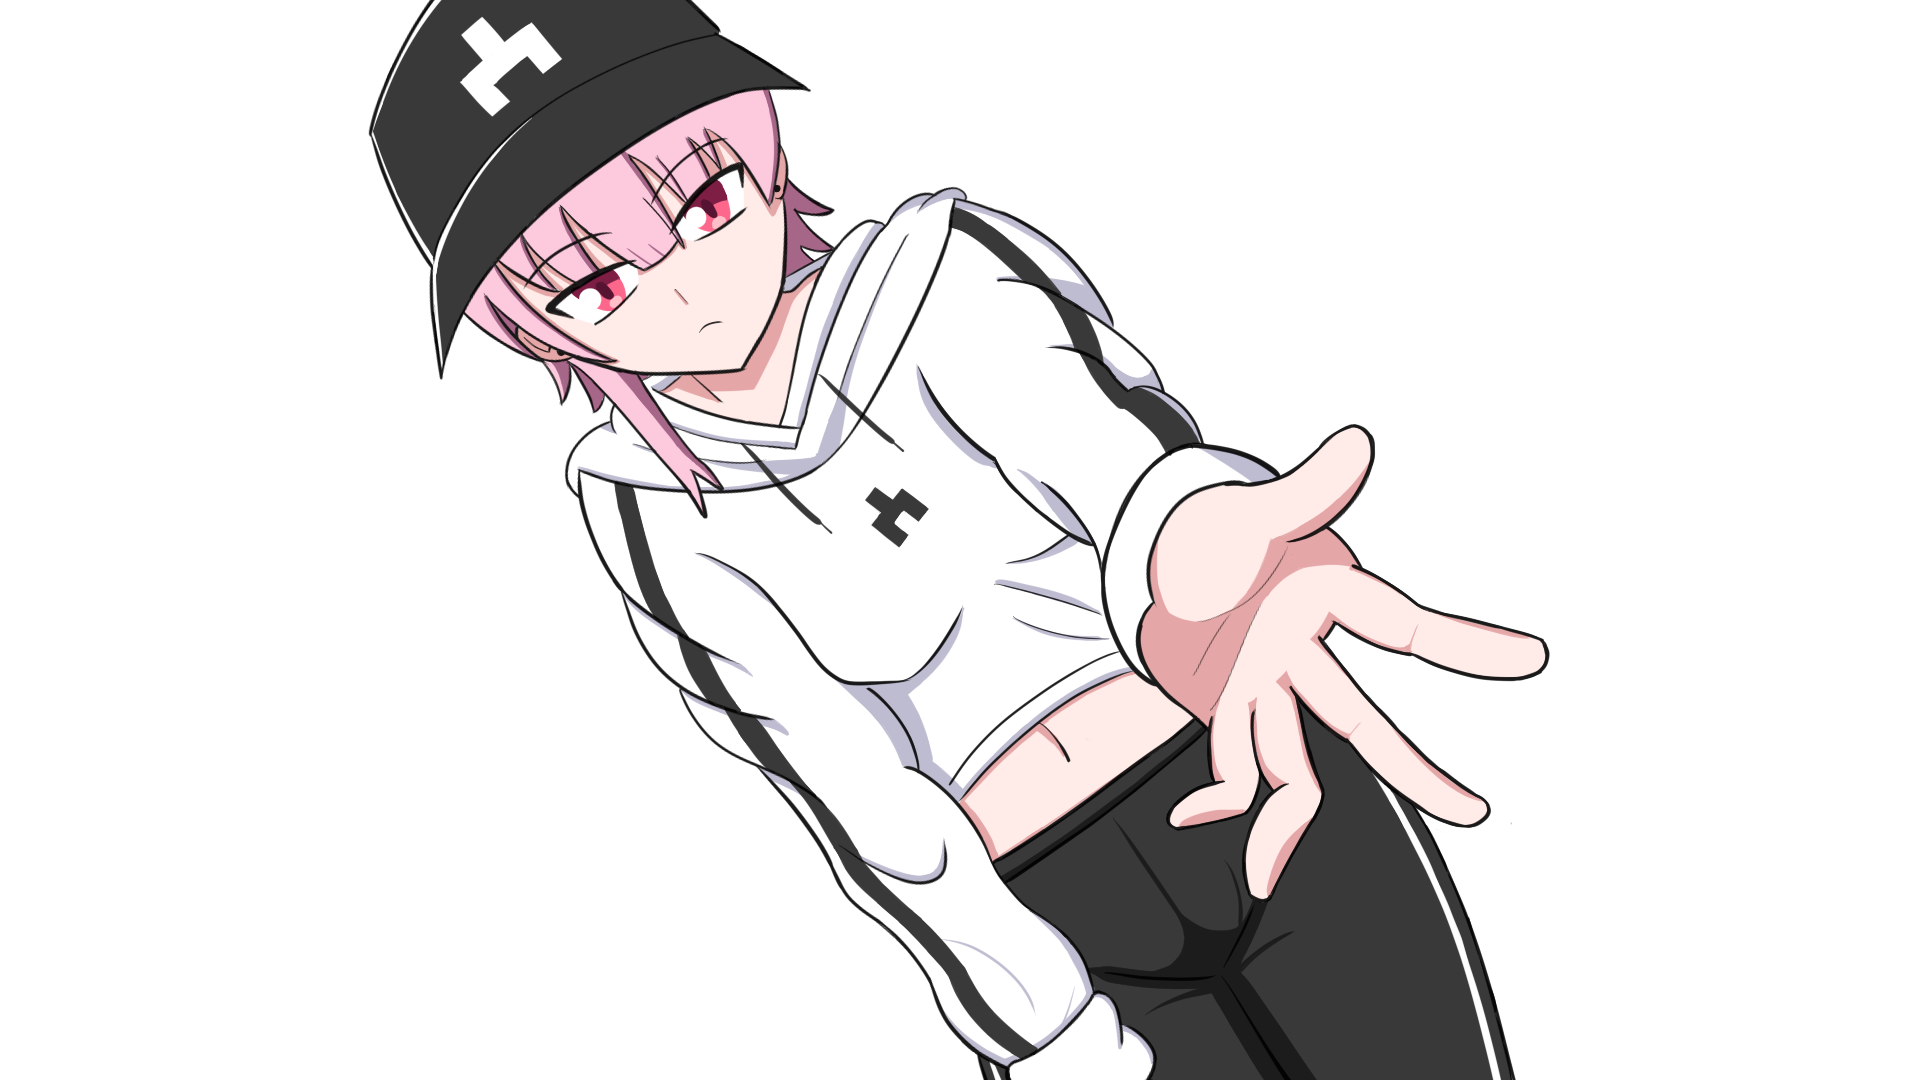
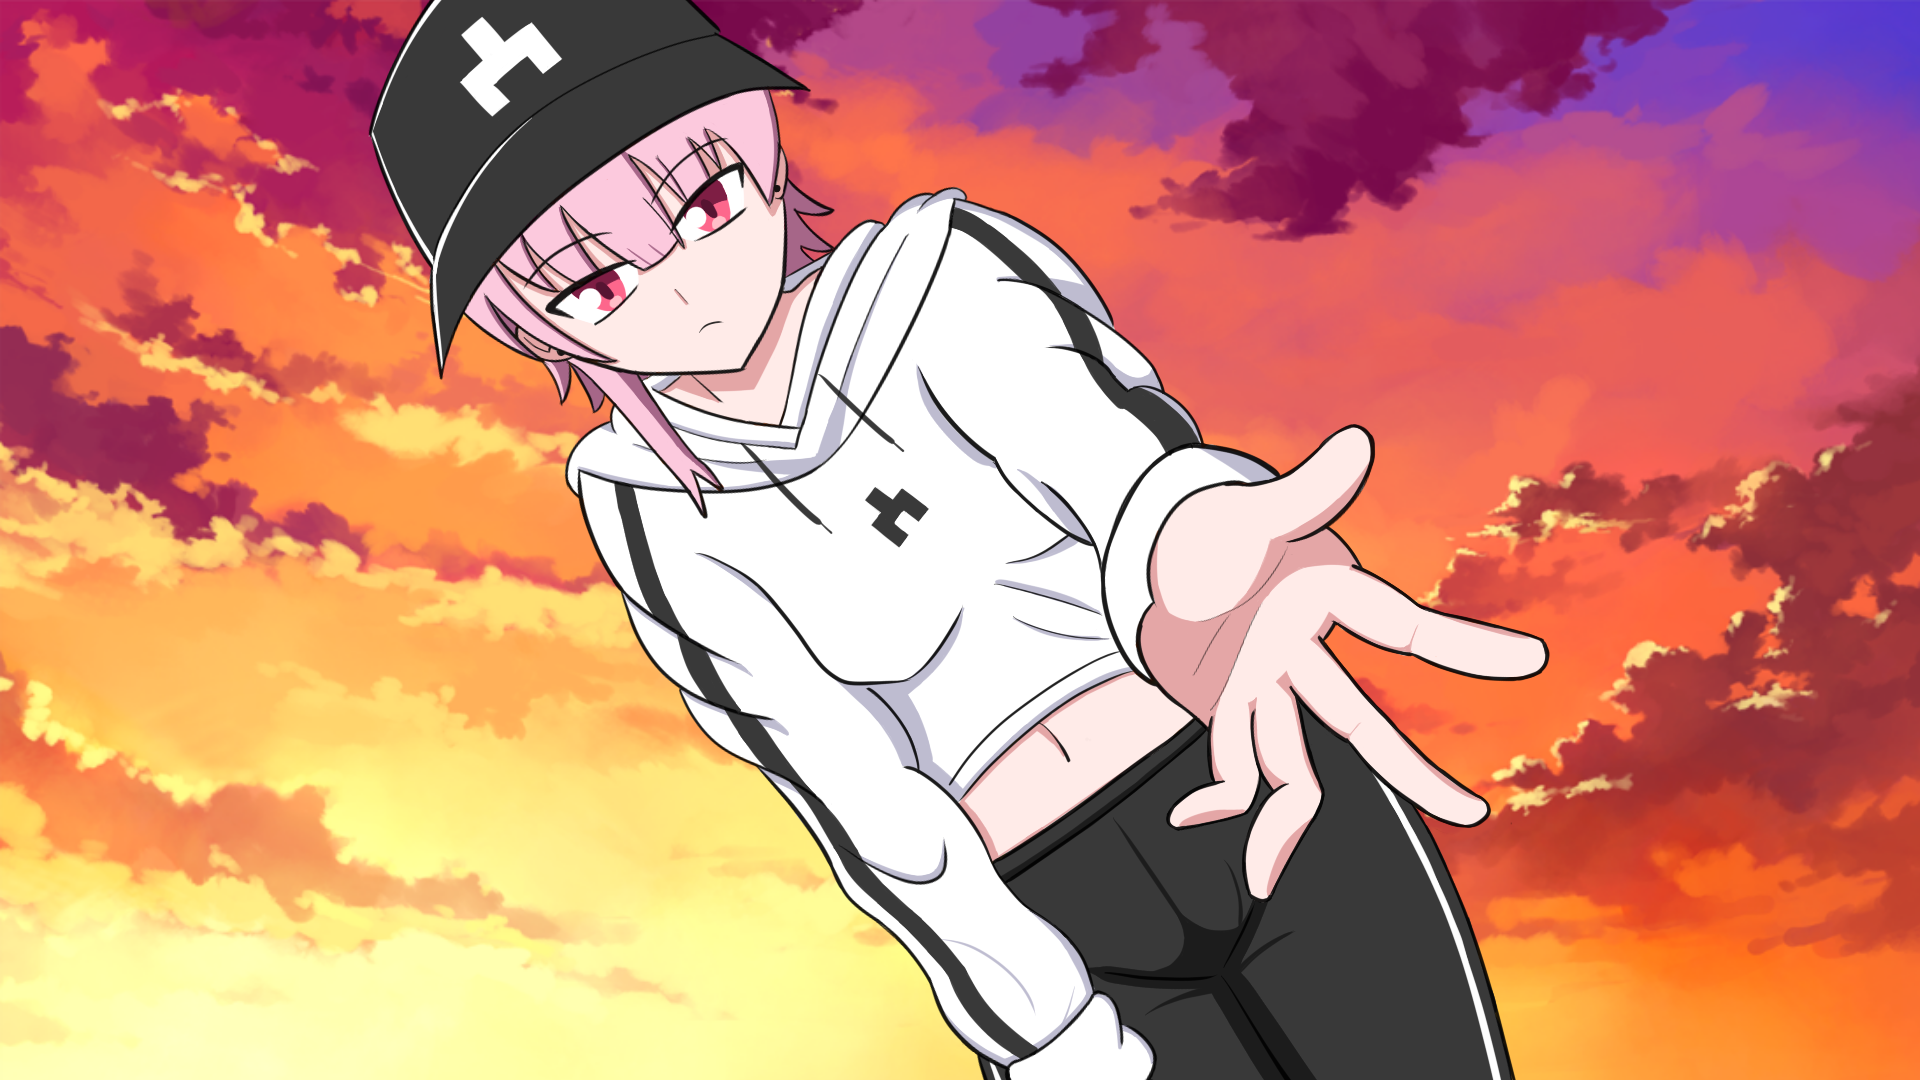
change: new backgrounds

diff --git a/Build/Game.js b/Build/Game.js
@@ -1,7 +1,7 @@
 "use strict";
 var Endabgabe;
 (function (Endabgabe) {
-    async function Alley() {
+    async function school() {
         console.log("FudgeStory Endabgabe Scene starting");
         //alert("Vollbild Modus (F11) zu empfehlen.");
         let menu = Endabgabe.ƒS.Menu.create(Endabgabe.menuItems, Endabgabe.menuButtons, "menu");
@@ -11,7 +11,7 @@ var Endabgabe;
             Protagonist: {
                 S1000_01: "Hmmm, der Bus kommt mal wieder zu spät. Als wäre es nicht schon spät genug und dann jeden Tag sowas. Und dann war es heute noch so ein harter Tag, wenigstens heute hätte der Bus pünktlich kommen können...",
                 S1000_02: "Wo kam der Schrei her? Ich sollte mal nachsehen...",
-                S1000_03: "Ich glaube der Schrei kam aus dieser Gasse...",
+                S1000_03: "Ich glaube der Schrei kam von hier...",
                 S1000_04: "Was soll ich tun?",
                 S1000_05: "Ich sollte sie aufhalten, aber wie?",
                 S1121_01: "Hey Jungs, lasst sie in Ruhe! Ihr könnt doch sowas nicht machen, beruhigt euch doch!",
@@ -29,7 +29,7 @@ var Endabgabe;
                 S1123_07: "He du! Bleib bei mir, ich hole einen Krankenwagen! HILFE!"
             },
             Nobu: {
-                S1121_02: "Hey Kleiner, verzieh dich. Geh einfach weiter und tu so als hättest du nichts gesehen.",
+                S1121_02: "Hey du, verzieh dich. Geh einfach weiter und tu so als hättest du nichts gesehen.",
                 S1121_03: "Junge, ich habe dich gewarnt, letzte Chance. Oder willst du den nächsten Tag nicht mehr erleben?",
                 S1121_04: "Wenn du nicht hören willst, musst du eben fühlen du kleine Ratte.",
                 S1121_06: "Du hättest auf mich hören sollen, jetzt ist es vorbei mit dir…",
@@ -89,7 +89,7 @@ var Endabgabe;
         await Endabgabe.ƒS.update(1);
         await Endabgabe.ƒS.Speech.tell(Endabgabe.characters.protagonist, text.Protagonist.S1000_01);
         await Endabgabe.ƒS.Speech.tell(Endabgabe.characters.protagonist, text.Protagonist.S1000_02);
-        await Endabgabe.ƒS.Location.show(Endabgabe.locations.alley);
+        await Endabgabe.ƒS.Location.show(Endabgabe.locations.school);
         await Endabgabe.ƒS.update(1);
         await Endabgabe.ƒS.Speech.tell(Endabgabe.characters.protagonist, text.Protagonist.S1000_03);
         await Endabgabe.ƒS.Location.show(Endabgabe.sequences.harassment);
@@ -108,7 +108,7 @@ var Endabgabe;
         switch (howToInterfere) {
             case howToInterfereAnswer.talk:
                 await Endabgabe.ƒS.Speech.tell(Endabgabe.characters.protagonist, text.Protagonist.S1121_01);
-                await Endabgabe.ƒS.Location.show(Endabgabe.locations.alley);
+                await Endabgabe.ƒS.Location.show(Endabgabe.locations.school);
                 await Endabgabe.ƒS.update(1);
                 await Endabgabe.ƒS.Character.show(Endabgabe.characters.nobu, Endabgabe.characters.nobu.pose.normal, Endabgabe.ƒS.positions.bottomcenter);
                 await Endabgabe.ƒS.update(1);
@@ -123,7 +123,7 @@ var Endabgabe;
                 await Endabgabe.ƒS.Location.show(Endabgabe.sequences.nobuHitMad);
                 await Endabgabe.ƒS.update(2);
                 await Endabgabe.ƒS.Speech.tell(Endabgabe.characters.protagonist, text.Protagonist.S1121_05);
-                await Endabgabe.ƒS.Location.show(Endabgabe.locations.alley);
+                await Endabgabe.ƒS.Location.show(Endabgabe.locations.school);
                 await Endabgabe.ƒS.update(1);
                 await Endabgabe.ƒS.Character.show(Endabgabe.characters.nobu, Endabgabe.characters.nobu.pose.normal, Endabgabe.ƒS.positions.bottomcenter);
                 await Endabgabe.ƒS.update(1);
@@ -137,7 +137,7 @@ var Endabgabe;
                 return "SumisHome";
             case howToInterfereAnswer.threatenWithCops:
                 await Endabgabe.ƒS.Speech.tell(Endabgabe.characters.protagonist, text.Protagonist.S1122_01);
-                await Endabgabe.ƒS.Location.show(Endabgabe.locations.alley);
+                await Endabgabe.ƒS.Location.show(Endabgabe.locations.school);
                 await Endabgabe.ƒS.update(1);
                 await Endabgabe.ƒS.Character.show(Endabgabe.characters.nobu, Endabgabe.characters.nobu.pose.normal, Endabgabe.ƒS.positions.bottomcenter);
                 await Endabgabe.ƒS.update(1);
@@ -154,7 +154,7 @@ var Endabgabe;
                         await Endabgabe.ƒS.Location.show(Endabgabe.sequences.nobuHitMad);
                         await Endabgabe.ƒS.update(2);
                         await Endabgabe.ƒS.Speech.tell(Endabgabe.characters.nobu, text.Nobu.S1122_05);
-                        await Endabgabe.ƒS.Location.show(Endabgabe.locations.alley);
+                        await Endabgabe.ƒS.Location.show(Endabgabe.locations.school);
                         await Endabgabe.ƒS.update(1);
                         // Polizei Sirenen oder so
                         await Endabgabe.ƒS.Speech.tell(Endabgabe.characters.schlaeger, text.Schlaeger.S1122_06);
@@ -201,7 +201,7 @@ var Endabgabe;
                 return "sumiHospital";
         }
     }
-    Endabgabe.Alley = Alley;
+    Endabgabe.school = school;
 })(Endabgabe || (Endabgabe = {}));
 var Endabgabe;
 (function (Endabgabe) {
@@ -228,11 +228,11 @@ var Endabgabe;
     Endabgabe.locations = {
         street: {
             name: "Street",
-            background: "./assets/images/backgrounds/street.jpg"
+            background: "./assets/images/backgrounds/street.png"
         },
-        alley: {
-            name: "Alley",
-            background: "./assets/images/backgrounds/alley.jpg"
+        school: {
+            name: "School",
+            background: "./assets/images/backgrounds/school.png"
         }
     };
     Endabgabe.sequences = {
@@ -414,7 +414,7 @@ var Endabgabe;
             Endabgabe.ƒS.Inventory.add(Endabgabe.items.item6);
         }
         let scenes = [
-            { scene: Endabgabe.Alley, name: "Alley", id: "alley" }
+            { scene: Endabgabe.school, name: "school", id: "school" }
         ];
         // start the sequence
         Endabgabe.ƒS.Progress.go(scenes);

diff --git a/Source/Alley.ts b/Source/Alley.ts
@@ -1,5 +1,5 @@
 namespace Endabgabe {
-  export async function Alley(): ƒS.SceneReturn {
+  export async function school(): ƒS.SceneReturn {
     console.log("FudgeStory Endabgabe Scene starting");
     //alert("Vollbild Modus (F11) zu empfehlen.");
     let menu = ƒS.Menu.create(menuItems, menuButtons, "menu");
@@ -10,7 +10,7 @@ namespace Endabgabe {
         Protagonist: {
             S1000_01: "Hmmm, der Bus kommt mal wieder zu spät. Als wäre es nicht schon spät genug und dann jeden Tag sowas. Und dann war es heute noch so ein harter Tag, wenigstens heute hätte der Bus pünktlich kommen können...",
             S1000_02: "Wo kam der Schrei her? Ich sollte mal nachsehen...",
-            S1000_03: "Ich glaube der Schrei kam aus dieser Gasse...",
+            S1000_03: "Ich glaube der Schrei kam von hier...",
             S1000_04: "Was soll ich tun?",
             S1000_05: "Ich sollte sie aufhalten, aber wie?",
 
@@ -33,7 +33,7 @@ namespace Endabgabe {
             S1123_07: "He du! Bleib bei mir, ich hole einen Krankenwagen! HILFE!"
         },
         Nobu: {
-            S1121_02: "Hey Kleiner, verzieh dich. Geh einfach weiter und tu so als hättest du nichts gesehen.",
+            S1121_02: "Hey du, verzieh dich. Geh einfach weiter und tu so als hättest du nichts gesehen.",
             S1121_03: "Junge, ich habe dich gewarnt, letzte Chance. Oder willst du den nächsten Tag nicht mehr erleben?",
             S1121_04: "Wenn du nicht hören willst, musst du eben fühlen du kleine Ratte.",
             S1121_06: "Du hättest auf mich hören sollen, jetzt ist es vorbei mit dir…",
@@ -57,7 +57,7 @@ namespace Endabgabe {
 
 
     // Decisions
-	  let interfereOrNot;
+    let interfereOrNot;
     let howToInterfere;
     let nobuTalk;
     let provokeOrKeepUp;
@@ -106,7 +106,7 @@ namespace Endabgabe {
     await ƒS.update(1);
     await ƒS.Speech.tell(characters.protagonist, text.Protagonist.S1000_01);
     await ƒS.Speech.tell(characters.protagonist, text.Protagonist.S1000_02);
-    await ƒS.Location.show(locations.alley);
+    await ƒS.Location.show(locations.school);
     await ƒS.update(1);
     await ƒS.Speech.tell(characters.protagonist, text.Protagonist.S1000_03);
     await ƒS.Location.show(sequences.harassment);
@@ -127,7 +127,7 @@ namespace Endabgabe {
     switch (howToInterfere) {
               case howToInterfereAnswer.talk:
                 await ƒS.Speech.tell(characters.protagonist, text.Protagonist.S1121_01);
-                await ƒS.Location.show(locations.alley);
+                await ƒS.Location.show(locations.school);
                 await ƒS.update(1);
                 await ƒS.Character.show(characters.nobu, characters.nobu.pose.normal, ƒS.positions.bottomcenter);
                 await ƒS.update(1);
@@ -149,7 +149,7 @@ namespace Endabgabe {
 
                 await ƒS.Speech.tell(characters.protagonist, text.Protagonist.S1121_05);
 
-                await ƒS.Location.show(locations.alley);
+                await ƒS.Location.show(locations.school);
                 await ƒS.update(1);
                 await ƒS.Character.show(characters.nobu, characters.nobu.pose.normal, ƒS.positions.bottomcenter);
                 await ƒS.update(1);
@@ -168,7 +168,7 @@ namespace Endabgabe {
                 return "SumisHome";
               case howToInterfereAnswer.threatenWithCops:
                 await ƒS.Speech.tell(characters.protagonist, text.Protagonist.S1122_01);
-                await ƒS.Location.show(locations.alley);
+                await ƒS.Location.show(locations.school);
                 await ƒS.update(1);
                 await ƒS.Character.show(characters.nobu, characters.nobu.pose.normal, ƒS.positions.bottomcenter);
                 await ƒS.update(1);
@@ -191,7 +191,7 @@ namespace Endabgabe {
                     await ƒS.update(2);
                     await ƒS.Speech.tell(characters.nobu, text.Nobu.S1122_05);
 
-                    await ƒS.Location.show(locations.alley);
+                    await ƒS.Location.show(locations.school);
                     await ƒS.update(1);
                     
                     // Polizei Sirenen oder so

diff --git a/Source/Main.ts b/Source/Main.ts
@@ -29,11 +29,11 @@ namespace Endabgabe {
     export let locations = {
         street: {
             name: "Street",
-            background: "./assets/images/backgrounds/street.jpg"
+            background: "./assets/images/backgrounds/street.png"
         },
-        alley: {
-            name: "Alley",
-            background: "./assets/images/backgrounds/alley.jpg"
+        school: {
+            name: "School",
+            background: "./assets/images/backgrounds/school.png"
         }
     };
 
@@ -230,7 +230,7 @@ namespace Endabgabe {
 
 
         let scenes: ƒS.Scenes = [
-            { scene: Alley, name: "Alley", id: "alley"}
+            { scene: school, name: "school", id: "school"}
         ];
   
         // start the sequence

diff --git a/Build/Game.d.ts b/Build/Game.d.ts
@@ -1,5 +1,5 @@
 declare namespace Endabgabe {
-    function Alley(): ƒS.SceneReturn;
+    function school(): ƒS.SceneReturn;
 }
 declare namespace Endabgabe {
     export import ƒ = FudgeCore;
@@ -24,7 +24,7 @@ declare namespace Endabgabe {
             name: string;
             background: string;
         };
-        alley: {
+        school: {
             name: string;
             background: string;
         };
